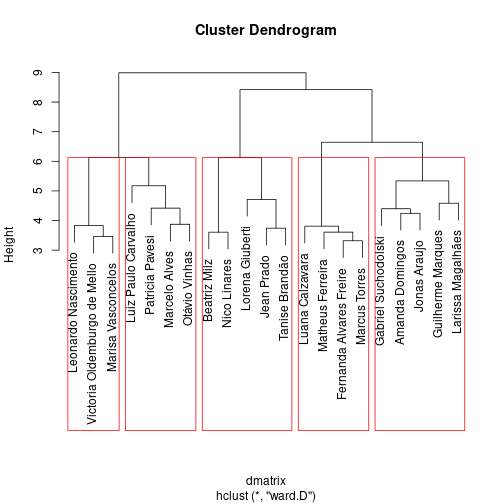
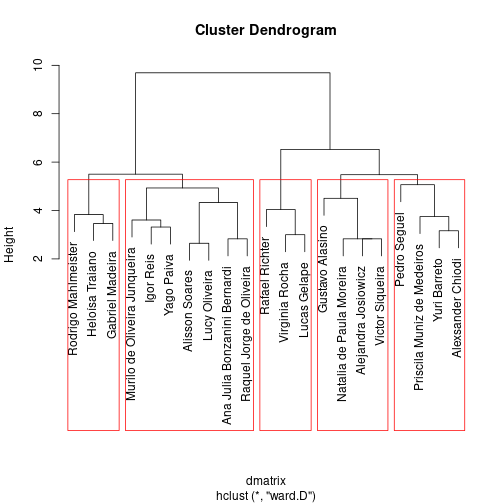
2022

diff --git a/slides-research-speed-dating.html b/slides-research-speed-dating.html
@@ -195,32 +195,36 @@ class:inverse, middle, center
  &lt;/thead&gt;
 &lt;tbody&gt;
   &lt;tr&gt;
-   &lt;td style="text-align:left;"&gt; Tanise    , Luiz Paulo, Matheus &lt;/td&gt;
+   &lt;td style="text-align:left;"&gt; Alisson, Alex   , Yago &lt;/td&gt;
    &lt;td style="text-align:right;"&gt; 1 &lt;/td&gt;
   &lt;/tr&gt;
   &lt;tr&gt;
-   &lt;td style="text-align:left;"&gt; Jean    , Marcelo , Patricia, Jonas &lt;/td&gt;
+   &lt;td style="text-align:left;"&gt; Igor  , Rafael, Yuri &lt;/td&gt;
    &lt;td style="text-align:right;"&gt; 2 &lt;/td&gt;
   &lt;/tr&gt;
   &lt;tr&gt;
-   &lt;td style="text-align:left;"&gt; Beatriz, Marcus , Lorena , Larissa &lt;/td&gt;
+   &lt;td style="text-align:left;"&gt; Lucy    , Heloisa , Natalia , Priscila &lt;/td&gt;
    &lt;td style="text-align:right;"&gt; 3 &lt;/td&gt;
   &lt;/tr&gt;
   &lt;tr&gt;
-   &lt;td style="text-align:left;"&gt; Nico    , Leonardo, Gabriel &lt;/td&gt;
+   &lt;td style="text-align:left;"&gt; Murilo   , Gustavo  , Alejandra, Raquel &lt;/td&gt;
    &lt;td style="text-align:right;"&gt; 4 &lt;/td&gt;
   &lt;/tr&gt;
   &lt;tr&gt;
-   &lt;td style="text-align:left;"&gt; Victoria, Amanda  , Luana   , Fernanda &lt;/td&gt;
+   &lt;td style="text-align:left;"&gt; Ana Julia, Virginia , Gabriel  , Victor &lt;/td&gt;
    &lt;td style="text-align:right;"&gt; 5 &lt;/td&gt;
   &lt;/tr&gt;
   &lt;tr&gt;
-   &lt;td style="text-align:left;"&gt; Marisa   , Otavio   , Guilherme &lt;/td&gt;
+   &lt;td style="text-align:left;"&gt; Lucas  , Rodrigo, Pedro &lt;/td&gt;
    &lt;td style="text-align:right;"&gt; 6 &lt;/td&gt;
   &lt;/tr&gt;
 &lt;/tbody&gt;
 &lt;/table&gt;
+
+
 ---
+
+
 
 class:inverse, middle, center
 

diff --git a/libs/header-attrs-2.11/header-attrs.js b/libs/header-attrs-2.11/header-attrs.js
@@ -1,0 +1,12 @@
+// Pandoc 2.9 adds attributes on both header and div. We remove the former (to
+// be compatible with the behavior of Pandoc < 2.8).
+document.addEventListener('DOMContentLoaded', function(e) {
+  var hs = document.querySelectorAll("div.section[class*='level'] > :first-child");
+  var i, h, a;
+  for (i = 0; i < hs.length; i++) {
+    h = hs[i];
+    if (!/^h[1-6]$/i.test(h.tagName)) continue;  // it should be a header h1-h6
+    a = h.attributes;
+    while (a.length > 0) h.removeAttribute(a[0].name);
+  }
+});
